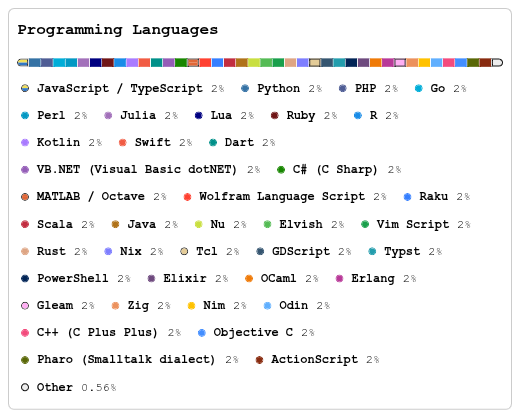
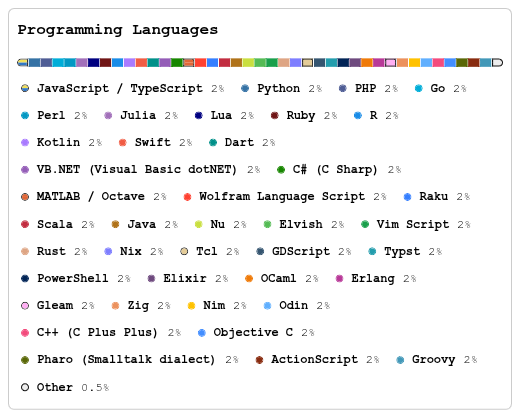
version 2.5.4: add groovy init;

diff --git a/README.md b/README.md
@@ -63,6 +63,7 @@ bash ./languages/<language>/run.sh ./languages/<language>/<file-name>.<file-exte
 37. [Objective C](https://developer.apple.com/documentation/objectivec/) : [https://developer.apple.com/documentation/objectivec/](https://developer.apple.com/documentation/objectivec/)  
 38. [Pharo (Smalltalk dialect)](https://pharo.org/) : [https://pharo.org/](https://pharo.org/)  
 39. [ActionScript](https://flex.apache.org/) : [https://flex.apache.org/](https://flex.apache.org/)  
+40. [Groovy](https://groovy-lang.org/) : [https://groovy-lang.org/](https://groovy-lang.org/)  
 
 ![GitHub Programming Languages Card](https://github.com/willyhorizont/cross-language-programming-concepts/blob/main/github-programming-languages-card.png)  
 
@@ -108,6 +109,7 @@ bash ./languages/<language>/run.sh ./languages/<language>/<file-name>.<file-exte
   37. [Objective C](https://github.com/willyhorizont/cross-language-programming-concepts/tree/main/languages/objective-c/cross-language-features.m)  
   38. [Pharo (Smalltalk dialect)](https://github.com/willyhorizont/cross-language-programming-concepts/tree/main/languages/smalltalk-dialect-pharo/cross-language-features.st)  
   39. [ActionScript](https://github.com/willyhorizont/cross-language-programming-concepts/tree/main/languages/actionscript/cross-language-features.as)  
+  40. [Groovy](https://github.com/willyhorizont/cross-language-programming-concepts/tree/main/languages/groovy/cross-language-features.groovy)  
 
 ---
 
@@ -151,6 +153,7 @@ bash ./languages/<language>/run.sh ./languages/<language>/<file-name>.<file-exte
   37. [Objective C](https://github.com/willyhorizont/cross-language-programming-concepts/tree/main/languages/objective-c/comments.m)  
   38. [Pharo (Smalltalk dialect)](https://github.com/willyhorizont/cross-language-programming-concepts/tree/main/languages/smalltalk-dialect-pharo/comments.st)  
   39. [ActionScript](https://github.com/willyhorizont/cross-language-programming-concepts/tree/main/languages/actionscript/comments.as)  
+  40. [Groovy](https://github.com/willyhorizont/cross-language-programming-concepts/tree/main/languages/groovy/comments.groovy)  
 
 ---
 
@@ -194,6 +197,7 @@ bash ./languages/<language>/run.sh ./languages/<language>/<file-name>.<file-exte
   37. [Objective C](https://github.com/willyhorizont/cross-language-programming-concepts/tree/main/languages/objective-c/hello-world.m)  
   38. [Pharo (Smalltalk dialect)](https://github.com/willyhorizont/cross-language-programming-concepts/tree/main/languages/smalltalk-dialect-pharo/hello-world.st)  
   39. [ActionScript](https://github.com/willyhorizont/cross-language-programming-concepts/tree/main/languages/actionscript/hello-world.as)  
+  40. [Groovy](https://github.com/willyhorizont/cross-language-programming-concepts/tree/main/languages/groovy/hello-world.groovy)  
 
 ---
 
@@ -237,6 +241,7 @@ bash ./languages/<language>/run.sh ./languages/<language>/<file-name>.<file-exte
   37. [Objective C](https://github.com/willyhorizont/cross-language-programming-concepts/tree/main/languages/objective-c/conditionals.m)  
   38. [Pharo (Smalltalk dialect)](https://github.com/willyhorizont/cross-language-programming-concepts/tree/main/languages/smalltalk-dialect-pharo/conditionals.st)  
   39. [ActionScript](https://github.com/willyhorizont/cross-language-programming-concepts/tree/main/languages/actionscript/conditionals.as)  
+  40. [Groovy](https://github.com/willyhorizont/cross-language-programming-concepts/tree/main/languages/groovy/conditionals.groovy)  
 
 ---
 
@@ -280,6 +285,7 @@ bash ./languages/<language>/run.sh ./languages/<language>/<file-name>.<file-exte
   37. [Objective C](https://github.com/willyhorizont/cross-language-programming-concepts/tree/main/languages/objective-c/loops.m)  
   38. [Pharo (Smalltalk dialect)](https://github.com/willyhorizont/cross-language-programming-concepts/tree/main/languages/smalltalk-dialect-pharo/loops.st)  
   39. [ActionScript](https://github.com/willyhorizont/cross-language-programming-concepts/tree/main/languages/actionscript/loops.as)  
+  40. [Groovy](https://github.com/willyhorizont/cross-language-programming-concepts/tree/main/languages/groovy/loops.groovy)  
 
 ---
 
@@ -323,6 +329,7 @@ bash ./languages/<language>/run.sh ./languages/<language>/<file-name>.<file-exte
   37. [Objective C](https://github.com/willyhorizont/cross-language-programming-concepts/tree/main/languages/objective-c/functions.m)  
   38. [Pharo (Smalltalk dialect)](https://github.com/willyhorizont/cross-language-programming-concepts/tree/main/languages/smalltalk-dialect-pharo/functions.st)  
   39. [ActionScript](https://github.com/willyhorizont/cross-language-programming-concepts/tree/main/languages/actionscript/functions.as)  
+  40. [Groovy](https://github.com/willyhorizont/cross-language-programming-concepts/tree/main/languages/groovy/functions.groovy)  
 
 ---
 
@@ -366,6 +373,7 @@ bash ./languages/<language>/run.sh ./languages/<language>/<file-name>.<file-exte
   37. [Objective C](https://github.com/willyhorizont/cross-language-programming-concepts/tree/main/languages/objective-c/error-handling.m)  
   38. [Pharo (Smalltalk dialect)](https://github.com/willyhorizont/cross-language-programming-concepts/tree/main/languages/smalltalk-dialect-pharo/error-handling.st)  
   39. [ActionScript](https://github.com/willyhorizont/cross-language-programming-concepts/tree/main/languages/actionscript/error-handling.as)  
+  40. [Groovy](https://github.com/willyhorizont/cross-language-programming-concepts/tree/main/languages/groovy/error-handling.groovy)  
 
 ---
 
@@ -409,6 +417,7 @@ bash ./languages/<language>/run.sh ./languages/<language>/<file-name>.<file-exte
   37. [Objective C](https://github.com/willyhorizont/cross-language-programming-concepts/tree/main/languages/objective-c/python-like-list.m) : Array  
   38. [Pharo (Smalltalk dialect)](https://github.com/willyhorizont/cross-language-programming-concepts/tree/main/languages/smalltalk-dialect-pharo/python-like-list.st) : OrderedCollection  
   39. [ActionScript](https://github.com/willyhorizont/cross-language-programming-concepts/tree/main/languages/actionscript/python-like-list.as) : Array  
+  40. [Groovy](https://github.com/willyhorizont/cross-language-programming-concepts/tree/main/languages/groovy/python-like-list.groovy) : List  
 
 ---
 
@@ -452,6 +461,7 @@ bash ./languages/<language>/run.sh ./languages/<language>/<file-name>.<file-exte
   37. [Objective C](https://github.com/willyhorizont/cross-language-programming-concepts/tree/main/languages/objective-c/python-like-dict.m) : Dictionary  
   38. [Pharo (Smalltalk dialect)](https://github.com/willyhorizont/cross-language-programming-concepts/tree/main/languages/smalltalk-dialect-pharo/python-like-dict.st) : OrderedDictionary  
   39. [ActionScript](https://github.com/willyhorizont/cross-language-programming-concepts/tree/main/languages/actionscript/python-like-dict.as) : Object  
+  40. [Groovy](https://github.com/willyhorizont/cross-language-programming-concepts/tree/main/languages/groovy/python-like-dict.groovy) : Map  
 
 ---
 
@@ -495,6 +505,7 @@ bash ./languages/<language>/run.sh ./languages/<language>/<file-name>.<file-exte
   37. [Objective C](https://github.com/willyhorizont/cross-language-programming-concepts/tree/main/languages/objective-c/loop-through-each-list-item.m)  
   38. [Pharo (Smalltalk dialect)](https://github.com/willyhorizont/cross-language-programming-concepts/tree/main/languages/smalltalk-dialect-pharo/loop-through-each-list-item.st)  
   39. [ActionScript](https://github.com/willyhorizont/cross-language-programming-concepts/tree/main/languages/actionscript/loop-through-each-list-item.as)  
+  40. [Groovy](https://github.com/willyhorizont/cross-language-programming-concepts/tree/main/languages/groovy/loop-through-each-list-item.groovy)  
 
 ---
 
@@ -538,6 +549,7 @@ bash ./languages/<language>/run.sh ./languages/<language>/<file-name>.<file-exte
   37. [Objective C](https://github.com/willyhorizont/cross-language-programming-concepts/tree/main/languages/objective-c/get-is-any-item-in-list-matching-condition.m)  
   38. [Pharo (Smalltalk dialect)](https://github.com/willyhorizont/cross-language-programming-concepts/tree/main/languages/smalltalk-dialect-pharo/get-is-any-item-in-list-matching-condition.st)  
   39. [ActionScript](https://github.com/willyhorizont/cross-language-programming-concepts/tree/main/languages/actionscript/get-is-any-item-in-list-matching-condition.as)  
+  40. [Groovy](https://github.com/willyhorizont/cross-language-programming-concepts/tree/main/languages/groovy/get-is-any-item-in-list-matching-condition.groovy)  
 
 ---
 
@@ -581,6 +593,7 @@ bash ./languages/<language>/run.sh ./languages/<language>/<file-name>.<file-exte
   37. [Objective C](https://github.com/willyhorizont/cross-language-programming-concepts/tree/main/languages/objective-c/get-is-all-item-in-list-matching-condition.m)  
   38. [Pharo (Smalltalk dialect)](https://github.com/willyhorizont/cross-language-programming-concepts/tree/main/languages/smalltalk-dialect-pharo/get-is-all-item-in-list-matching-condition.st)  
   39. [ActionScript](https://github.com/willyhorizont/cross-language-programming-concepts/tree/main/languages/actionscript/get-is-all-item-in-list-matching-condition.as)  
+  40. [Groovy](https://github.com/willyhorizont/cross-language-programming-concepts/tree/main/languages/groovy/get-is-all-item-in-list-matching-condition.groovy)  
 
 ---
 
@@ -624,6 +637,7 @@ bash ./languages/<language>/run.sh ./languages/<language>/<file-name>.<file-exte
   37. [Objective C](https://github.com/willyhorizont/cross-language-programming-concepts/tree/main/languages/objective-c/get-first-list-item-matching-condition.m)  
   38. [Pharo (Smalltalk dialect)](https://github.com/willyhorizont/cross-language-programming-concepts/tree/main/languages/smalltalk-dialect-pharo/get-first-list-item-matching-condition.st)  
   39. [ActionScript](https://github.com/willyhorizont/cross-language-programming-concepts/tree/main/languages/actionscript/get-first-list-item-matching-condition.as)  
+  40. [Groovy](https://github.com/willyhorizont/cross-language-programming-concepts/tree/main/languages/groovy/get-first-list-item-matching-condition.groovy)  
 
 ---
 
@@ -667,6 +681,7 @@ bash ./languages/<language>/run.sh ./languages/<language>/<file-name>.<file-exte
   37. [Objective C](https://github.com/willyhorizont/cross-language-programming-concepts/tree/main/languages/objective-c/get-index-of-list-item-matching-condition.m)  
   38. [Pharo (Smalltalk dialect)](https://github.com/willyhorizont/cross-language-programming-concepts/tree/main/languages/smalltalk-dialect-pharo/get-index-of-list-item-matching-condition.st)  
   39. [ActionScript](https://github.com/willyhorizont/cross-language-programming-concepts/tree/main/languages/actionscript/get-index-of-list-item-matching-condition.as)  
+  40. [Groovy](https://github.com/willyhorizont/cross-language-programming-concepts/tree/main/languages/groovy/get-index-of-list-item-matching-condition.groovy)  
 
 ---
 
@@ -710,6 +725,7 @@ bash ./languages/<language>/run.sh ./languages/<language>/<file-name>.<file-exte
   37. [Objective C](https://github.com/willyhorizont/cross-language-programming-concepts/tree/main/languages/objective-c/get-all-list-item-matching-condition.m)  
   38. [Pharo (Smalltalk dialect)](https://github.com/willyhorizont/cross-language-programming-concepts/tree/main/languages/smalltalk-dialect-pharo/get-all-list-item-matching-condition.st)  
   39. [ActionScript](https://github.com/willyhorizont/cross-language-programming-concepts/tree/main/languages/actionscript/get-all-list-item-matching-condition.as)  
+  40. [Groovy](https://github.com/willyhorizont/cross-language-programming-concepts/tree/main/languages/groovy/get-all-list-item-matching-condition.groovy)  
 
 ---
 
@@ -753,6 +769,7 @@ bash ./languages/<language>/run.sh ./languages/<language>/<file-name>.<file-exte
   37. [Objective C](https://github.com/willyhorizont/cross-language-programming-concepts/tree/main/languages/objective-c/transform-each-list-item.m)  
   38. [Pharo (Smalltalk dialect)](https://github.com/willyhorizont/cross-language-programming-concepts/tree/main/languages/smalltalk-dialect-pharo/transform-each-list-item.st)  
   39. [ActionScript](https://github.com/willyhorizont/cross-language-programming-concepts/tree/main/languages/actionscript/transform-each-list-item.as)  
+  40. [Groovy](https://github.com/willyhorizont/cross-language-programming-concepts/tree/main/languages/groovy/transform-each-list-item.groovy)  
 
 ---
 
@@ -796,6 +813,7 @@ bash ./languages/<language>/run.sh ./languages/<language>/<file-name>.<file-exte
   37. [Objective C](https://github.com/willyhorizont/cross-language-programming-concepts/tree/main/languages/objective-c/combine-all-list-item.m)  
   38. [Pharo (Smalltalk dialect)](https://github.com/willyhorizont/cross-language-programming-concepts/tree/main/languages/smalltalk-dialect-pharo/combine-all-list-item.st)  
   39. [ActionScript](https://github.com/willyhorizont/cross-language-programming-concepts/tree/main/languages/actionscript/combine-all-list-item.as)  
+  40. [Groovy](https://github.com/willyhorizont/cross-language-programming-concepts/tree/main/languages/groovy/combine-all-list-item.groovy)  
 
 ---
 
@@ -839,6 +857,7 @@ bash ./languages/<language>/run.sh ./languages/<language>/<file-name>.<file-exte
   37. [Objective C](https://github.com/willyhorizont/cross-language-programming-concepts/tree/main/languages/objective-c/list-remove-tail.m)  
   38. [Pharo (Smalltalk dialect)](https://github.com/willyhorizont/cross-language-programming-concepts/tree/main/languages/smalltalk-dialect-pharo/list-remove-tail.st)  
   39. [ActionScript](https://github.com/willyhorizont/cross-language-programming-concepts/tree/main/languages/actionscript/list-remove-tail.as)  
+  40. [Groovy](https://github.com/willyhorizont/cross-language-programming-concepts/tree/main/languages/groovy/list-remove-tail.groovy)  
 
 ---
 
@@ -882,3 +901,4 @@ bash ./languages/<language>/run.sh ./languages/<language>/<file-name>.<file-exte
   37. [Objective C](https://github.com/willyhorizont/cross-language-programming-concepts/tree/main/languages/objective-c/list-insert-tail.m)  
   38. [Pharo (Smalltalk dialect)](https://github.com/willyhorizont/cross-language-programming-concepts/tree/main/languages/smalltalk-dialect-pharo/list-insert-tail.st)  
   39. [ActionScript](https://github.com/willyhorizont/cross-language-programming-concepts/tree/main/languages/actionscript/list-insert-tail.as)  
+  40. [Groovy](https://github.com/willyhorizont/cross-language-programming-concepts/tree/main/languages/groovy/list-insert-tail.groovy)  